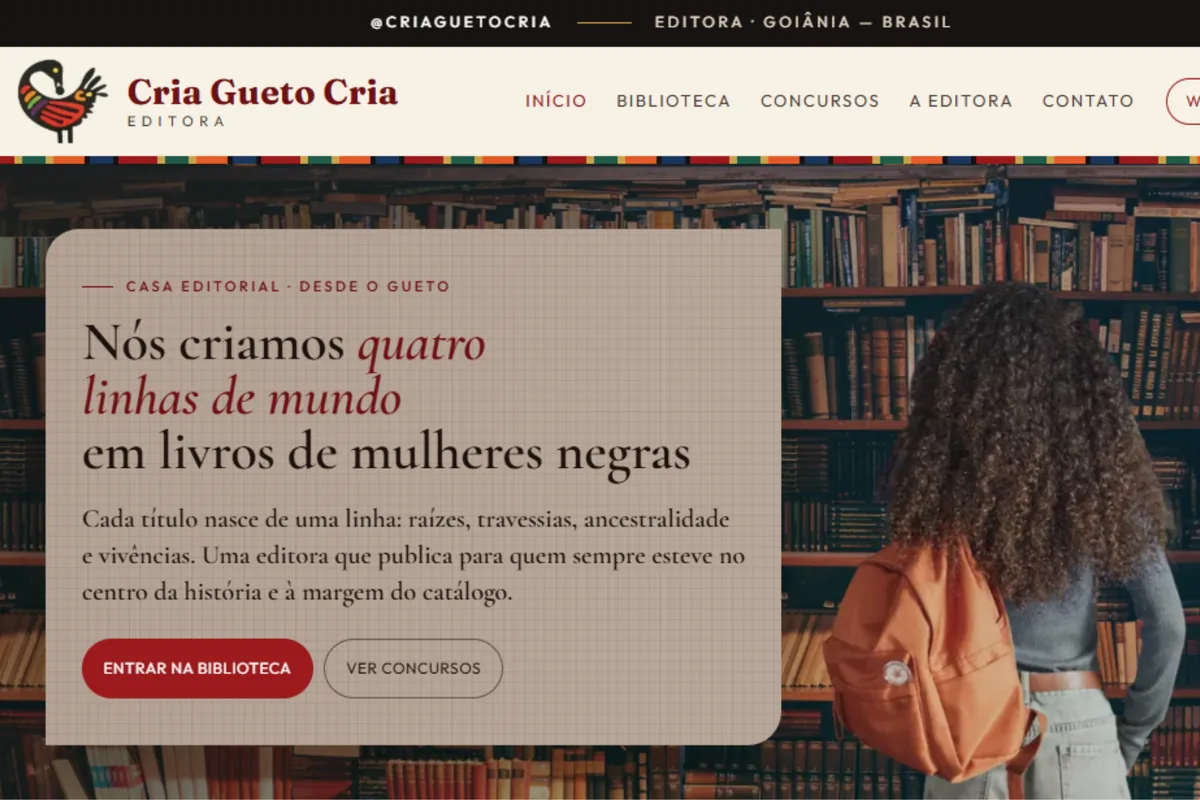
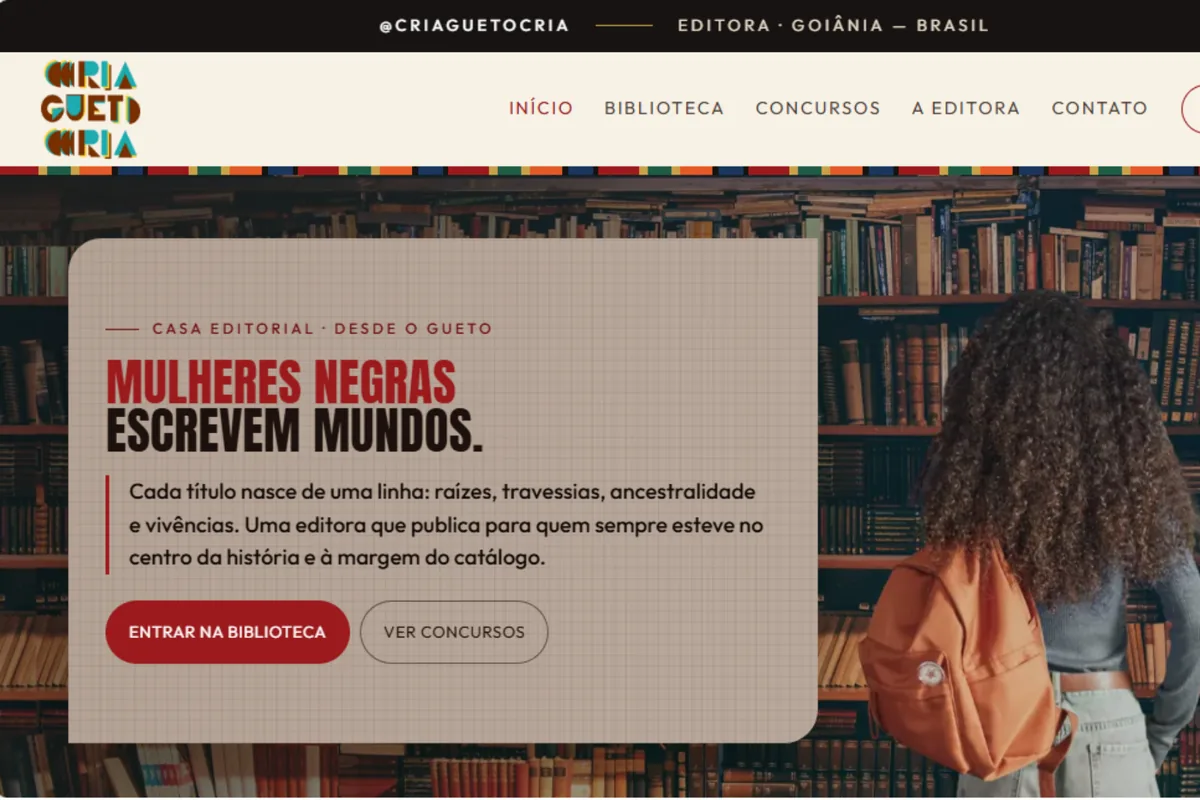
portifolio

diff --git a/index.html b/index.html
@@ -40,14 +40,15 @@
         "url": "https://www.masolucoes.com.br/",
         "logo": "https://www.masolucoes.com.br/assets/icons/favicon.svg",
         "image": "https://www.masolucoes.com.br/assets/img/og-image.jpg",
-        "telephone": "+55-38-99866-8730",
+        "telephone": "+55-38-99889-9117",
         "priceRange": "$$",
         "areaServed": { "@type": "Country", "name": "Brasil" },
         "founder": { "@id": "https://www.masolucoes.com.br/#marco" },
-        "sameAs": ["https://www.instagram.com/psivitoria.com.vc/"],
+        "sameAs": ["https://www.linkedin.com/in/marco-ant%C3%B4nio-8928261b8/"],
+        "email": "marcosofth@gmail.com",
         "contactPoint": {
           "@type": "ContactPoint",
-          "telephone": "+55-38-99866-8730",
+          "telephone": "+55-38-99889-9117",
           "contactType": "customer service",
           "availableLanguage": "Portuguese"
         },
@@ -153,7 +154,7 @@
           <li><a class="nav__link" href="#trabalhos">Trabalhos</a></li>
           <li><a class="nav__link" href="#contato">Contato</a></li>
         </ul>
-        <a class="btn btn--sm btn--outline" href="https://api.whatsapp.com/send/?phone=5538998668730&amp;text=Ol%C3%A1%2C%20Marco!%20Vim%20pelo%20site%20e%20quero%20destacar%20meu%20neg%C3%B3cio.&amp;type=phone_number&amp;app_absent=0" target="_blank" rel="noopener" aria-label="Fale comigo pelo WhatsApp (abre em nova aba)">WhatsApp</a>
+        <a class="btn btn--sm btn--outline" href="https://api.whatsapp.com/send/?phone=5538998899117&amp;text=Ol%C3%A1%2C%20Marco!%20Vim%20pelo%20site%20e%20quero%20destacar%20meu%20neg%C3%B3cio.&amp;type=phone_number&amp;app_absent=0" target="_blank" rel="noopener" aria-label="Fale comigo pelo WhatsApp (abre em nova aba)">WhatsApp</a>
       </nav>
 
       <button class="burger" id="burger" type="button" aria-label="Abrir menu" aria-expanded="false" aria-controls="mobile-menu">
@@ -173,8 +174,8 @@
       </ol>
     </nav>
     <div class="mobile-menu__foot">
-      <a href="https://api.whatsapp.com/send/?phone=5538998668730&amp;text=Ol%C3%A1%2C%20Marco!%20Vim%20pelo%20site%20e%20quero%20destacar%20meu%20neg%C3%B3cio.&amp;type=phone_number&amp;app_absent=0" target="_blank" rel="noopener">(38) 99866-8730</a>
-      <a href="https://www.instagram.com/psivitoria.com.vc/" target="_blank" rel="noopener">Instagram</a>
+      <a href="https://api.whatsapp.com/send/?phone=5538998899117&amp;text=Ol%C3%A1%2C%20Marco!%20Vim%20pelo%20site%20e%20quero%20destacar%20meu%20neg%C3%B3cio.&amp;type=phone_number&amp;app_absent=0" target="_blank" rel="noopener">(38) 99889-9117</a>
+      <a href="https://www.linkedin.com/in/marco-ant%C3%B4nio-8928261b8/" target="_blank" rel="noopener">LinkedIn</a>
     </div>
   </div>
 
@@ -204,7 +205,7 @@
           </div>
 
           <div class="hero__actions" data-reveal style="--d:.3s">
-            <a class="btn btn--whatsapp" href="https://api.whatsapp.com/send/?phone=5538998668730&amp;text=Ol%C3%A1%2C%20Marco!%20Vim%20pelo%20site%20e%20quero%20destacar%20meu%20neg%C3%B3cio.&amp;type=phone_number&amp;app_absent=0" target="_blank" rel="noopener" aria-label="Fale comigo pelo WhatsApp (abre em nova aba)">
+            <a class="btn btn--whatsapp" href="https://api.whatsapp.com/send/?phone=5538998899117&amp;text=Ol%C3%A1%2C%20Marco!%20Vim%20pelo%20site%20e%20quero%20destacar%20meu%20neg%C3%B3cio.&amp;type=phone_number&amp;app_absent=0" target="_blank" rel="noopener" aria-label="Fale comigo pelo WhatsApp (abre em nova aba)">
               <svg class="icon" viewBox="0 0 24 24" aria-hidden="true"><use href="#i-whatsapp"/></svg>
               Fale comigo
             </a>
@@ -308,16 +309,12 @@
                   Ver site
                   <svg class="icon" viewBox="0 0 24 24" aria-hidden="true"><use href="#i-arrow-up-right"/></svg>
                 </a>
-                <a class="link-arrow link-arrow--muted" href="https://maps.app.goo.gl/s8LrZuRiovrNYe4b8" target="_blank" rel="noopener">
-                  Ver no Google Maps
-                  <svg class="icon" viewBox="0 0 24 24" aria-hidden="true"><use href="#i-arrow-up-right"/></svg>
-                </a>
               </div>
             </div>
           </article>
 
           <article class="project project--reverse" data-reveal>
-            <a class="project__media" href="https://criaguetocria.vercel.app/" target="_blank" rel="noopener" aria-label="Ver site da Editora Cria Gueto Cria (abre em nova aba)" data-cursor-label="Ver">
+            <a class="project__media" href="https://www.criaguetocria.com.br/" target="_blank" rel="noopener" aria-label="Ver site da Editora Cria Gueto Cria (abre em nova aba)" data-cursor-label="Ver">
               <img src="assets/img/projeto-cria-gueto-cria-1200.webp" srcset="assets/img/projeto-cria-gueto-cria-800.webp 800w, assets/img/projeto-cria-gueto-cria-1200.webp 1200w" sizes="(min-width: 768px) 55vw, 100vw" width="1200" height="800" loading="lazy" decoding="async" alt="Página inicial do site da Editora Cria Gueto Cria, casa editorial de Goiânia que publica livros de mulheres negras">
             </a>
             <div class="project__body">
@@ -328,7 +325,7 @@
               <h3 class="project__title">Editora Cria Gueto Cria</h3>
               <p>Casa editorial de Goiânia que publica livros de mulheres negras. A editora buscava mais credibilidade e uma forma de bom custo-benefício para reunir e arquivar seus projetos. O site organiza o catálogo em uma biblioteca digital e divulga os concursos literários.</p>
               <div class="project__links">
-                <a class="link-arrow link-arrow--muted" href="https://criaguetocria.vercel.app/" target="_blank" rel="noopener">
+                <a class="link-arrow link-arrow--muted" href="https://www.criaguetocria.com.br/" target="_blank" rel="noopener">
                   Ver site
                   <svg class="icon" viewBox="0 0 24 24" aria-hidden="true"><use href="#i-arrow-up-right"/></svg>
                 </a>
@@ -379,12 +376,12 @@
             Me chame no WhatsApp, conte sobre o seu negócio e eu te mostro o caminho para aparecer na frente.
             Atendimento direto comigo, sem intermediários.
           </p>
-          <a class="btn btn--whatsapp btn--lg" href="https://api.whatsapp.com/send/?phone=5538998668730&amp;text=Ol%C3%A1%2C%20Marco!%20Vim%20pelo%20site%20e%20quero%20destacar%20meu%20neg%C3%B3cio.&amp;type=phone_number&amp;app_absent=0" target="_blank" rel="noopener" aria-label="Chamar no WhatsApp agora (abre em nova aba)">
+          <a class="btn btn--whatsapp btn--lg" href="https://api.whatsapp.com/send/?phone=5538998899117&amp;text=Ol%C3%A1%2C%20Marco!%20Vim%20pelo%20site%20e%20quero%20destacar%20meu%20neg%C3%B3cio.&amp;type=phone_number&amp;app_absent=0" target="_blank" rel="noopener" aria-label="Chamar no WhatsApp agora (abre em nova aba)">
             <svg class="icon" viewBox="0 0 24 24" aria-hidden="true"><use href="#i-whatsapp"/></svg>
             Chamar no WhatsApp
           </a>
-          <a class="link-arrow link-arrow--muted" href="https://www.instagram.com/psivitoria.com.vc/" target="_blank" rel="noopener">
-            ou acompanhe no Instagram
+          <a class="link-arrow link-arrow--muted" href="https://www.linkedin.com/in/marco-ant%C3%B4nio-8928261b8/" target="_blank" rel="noopener">
+            ou me encontre no LinkedIn
             <svg class="icon" viewBox="0 0 24 24" aria-hidden="true"><use href="#i-arrow-up-right"/></svg>
           </a>
         </div>
@@ -405,12 +402,12 @@
         <p>Sites profissionais e Google Meu Negócio para empresas que querem ser a primeira escolha da sua região.</p>
         <ul class="social" aria-label="Redes sociais">
           <li>
-            <a class="social__link" href="https://www.instagram.com/psivitoria.com.vc/" target="_blank" rel="noopener" aria-label="Instagram da M.A Soluções (abre em nova aba)">
-              <svg class="icon" viewBox="0 0 24 24" aria-hidden="true"><use href="#i-instagram"/></svg>
+            <a class="social__link" href="https://www.linkedin.com/in/marco-ant%C3%B4nio-8928261b8/" target="_blank" rel="noopener" aria-label="LinkedIn de Marco Antônio (abre em nova aba)">
+              <svg class="icon" viewBox="0 0 24 24" aria-hidden="true"><use href="#i-linkedin"/></svg>
             </a>
           </li>
           <li>
-            <a class="social__link" href="https://api.whatsapp.com/send/?phone=5538998668730&amp;text=Ol%C3%A1%2C%20Marco!%20Vim%20pelo%20site%20e%20quero%20destacar%20meu%20neg%C3%B3cio.&amp;type=phone_number&amp;app_absent=0" target="_blank" rel="noopener" aria-label="WhatsApp da M.A Soluções (abre em nova aba)">
+            <a class="social__link" href="https://api.whatsapp.com/send/?phone=5538998899117&amp;text=Ol%C3%A1%2C%20Marco!%20Vim%20pelo%20site%20e%20quero%20destacar%20meu%20neg%C3%B3cio.&amp;type=phone_number&amp;app_absent=0" target="_blank" rel="noopener" aria-label="WhatsApp da M.A Soluções (abre em nova aba)">
               <svg class="icon" viewBox="0 0 24 24" aria-hidden="true"><use href="#i-whatsapp"/></svg>
             </a>
           </li>
@@ -429,10 +426,9 @@
       <div class="footer__col">
         <h2 class="footer__heading">Contato</h2>
         <ul>
-          <li><a href="https://api.whatsapp.com/send/?phone=5538998668730&amp;text=Ol%C3%A1%2C%20Marco!%20Vim%20pelo%20site%20e%20quero%20destacar%20meu%20neg%C3%B3cio.&amp;type=phone_number&amp;app_absent=0" target="_blank" rel="noopener">(38) 99866-8730</a></li>
-          <!-- SUBSTITUIR: e-mail real -->
-          <li><a href="mailto:contato@masolucoes.com.br">contato@masolucoes.com.br</a></li>
-          <li><a href="https://www.instagram.com/psivitoria.com.vc/" target="_blank" rel="noopener">Instagram</a></li>
+          <li><a href="https://api.whatsapp.com/send/?phone=5538998899117&amp;text=Ol%C3%A1%2C%20Marco!%20Vim%20pelo%20site%20e%20quero%20destacar%20meu%20neg%C3%B3cio.&amp;type=phone_number&amp;app_absent=0" target="_blank" rel="noopener">(38) 99889-9117</a></li>
+          <li><a href="mailto:marcosofth@gmail.com">marcosofth@gmail.com</a></li>
+          <li><a href="https://www.linkedin.com/in/marco-ant%C3%B4nio-8928261b8/" target="_blank" rel="noopener">LinkedIn</a></li>
         </ul>
       </div>
     </div>
@@ -444,14 +440,14 @@
   </footer>
 
   <!-- Botão WhatsApp flutuante -->
-  <a class="wa-float" href="https://api.whatsapp.com/send/?phone=5538998668730&amp;text=Ol%C3%A1%2C%20Marco!%20Vim%20pelo%20site%20e%20quero%20destacar%20meu%20neg%C3%B3cio.&amp;type=phone_number&amp;app_absent=0" target="_blank" rel="noopener" aria-label="Conversar no WhatsApp (abre em nova aba)">
+  <a class="wa-float" href="https://api.whatsapp.com/send/?phone=5538998899117&amp;text=Ol%C3%A1%2C%20Marco!%20Vim%20pelo%20site%20e%20quero%20destacar%20meu%20neg%C3%B3cio.&amp;type=phone_number&amp;app_absent=0" target="_blank" rel="noopener" aria-label="Conversar no WhatsApp (abre em nova aba)">
     <svg class="icon" viewBox="0 0 24 24" aria-hidden="true"><use href="#i-whatsapp"/></svg>
   </a>
 
   <!-- Sprite de ícones -->
   <svg width="0" height="0" style="position:absolute" aria-hidden="true">
     <symbol id="i-whatsapp" viewBox="0 0 24 24"><path fill="currentColor" d="M12.04 2a9.9 9.9 0 0 0-8.5 15l-1.4 5 5.15-1.35A9.9 9.9 0 1 0 12.04 2Zm0 18.1a8.2 8.2 0 0 1-4.18-1.15l-.3-.18-3.06.8.82-2.98-.2-.31a8.22 8.22 0 1 1 6.92 3.82Zm4.5-6.16c-.25-.12-1.46-.72-1.69-.8-.23-.08-.39-.12-.55.12-.16.25-.63.8-.78.96-.14.17-.29.19-.53.06a6.74 6.74 0 0 1-3.37-2.94c-.25-.44.25-.41.72-1.36.08-.16.04-.3-.02-.43-.06-.12-.55-1.33-.76-1.82-.2-.48-.4-.41-.55-.42h-.47a.9.9 0 0 0-.65.3 2.74 2.74 0 0 0-.86 2.04 4.77 4.77 0 0 0 1 2.53 10.9 10.9 0 0 0 4.18 3.7c1.56.67 2.17.73 2.95.61.47-.07 1.46-.6 1.66-1.17.21-.58.21-1.07.15-1.17-.06-.11-.22-.17-.47-.29Z"/></symbol>
-    <symbol id="i-instagram" viewBox="0 0 24 24"><path fill="none" stroke="currentColor" stroke-width="1.8" d="M7 2.9h10A4.1 4.1 0 0 1 21.1 7v10a4.1 4.1 0 0 1-4.1 4.1H7A4.1 4.1 0 0 1 2.9 17V7A4.1 4.1 0 0 1 7 2.9Z"/><circle cx="12" cy="12" r="4.1" fill="none" stroke="currentColor" stroke-width="1.8"/><circle cx="17.4" cy="6.6" r="1.1" fill="currentColor"/></symbol>
+    <symbol id="i-linkedin" viewBox="0 0 24 24"><path fill="currentColor" d="M4.98 3.5a2.5 2.5 0 1 1 0 5 2.5 2.5 0 0 1 0-5ZM3 9.75h4v11H3v-11Zm6.5 0h3.83v1.5h.05c.53-1 1.84-2.05 3.8-2.05 4.05 0 4.82 2.67 4.82 6.14v5.41h-4v-4.8c0-1.15-.02-2.62-1.6-2.62-1.6 0-1.85 1.25-1.85 2.54v4.88h-4v-11Z"/></symbol>
     <symbol id="i-arrow-down" viewBox="0 0 24 24"><path fill="none" stroke="currentColor" stroke-width="1.8" stroke-linecap="round" stroke-linejoin="round" d="M12 5v14m-6-6 6 6 6-6"/></symbol>
     <symbol id="i-arrow-up-right" viewBox="0 0 24 24"><path fill="none" stroke="currentColor" stroke-width="1.8" stroke-linecap="round" stroke-linejoin="round" d="M7 17 17 7M8 7h9v9"/></symbol>
     <symbol id="i-pin" viewBox="0 0 24 24"><path fill="currentColor" d="M12 2a7 7 0 0 0-7 7c0 5.25 7 13 7 13s7-7.75 7-13a7 7 0 0 0-7-7Zm0 9.5A2.5 2.5 0 1 1 12 6.5a2.5 2.5 0 0 1 0 5Z"/></symbol>
